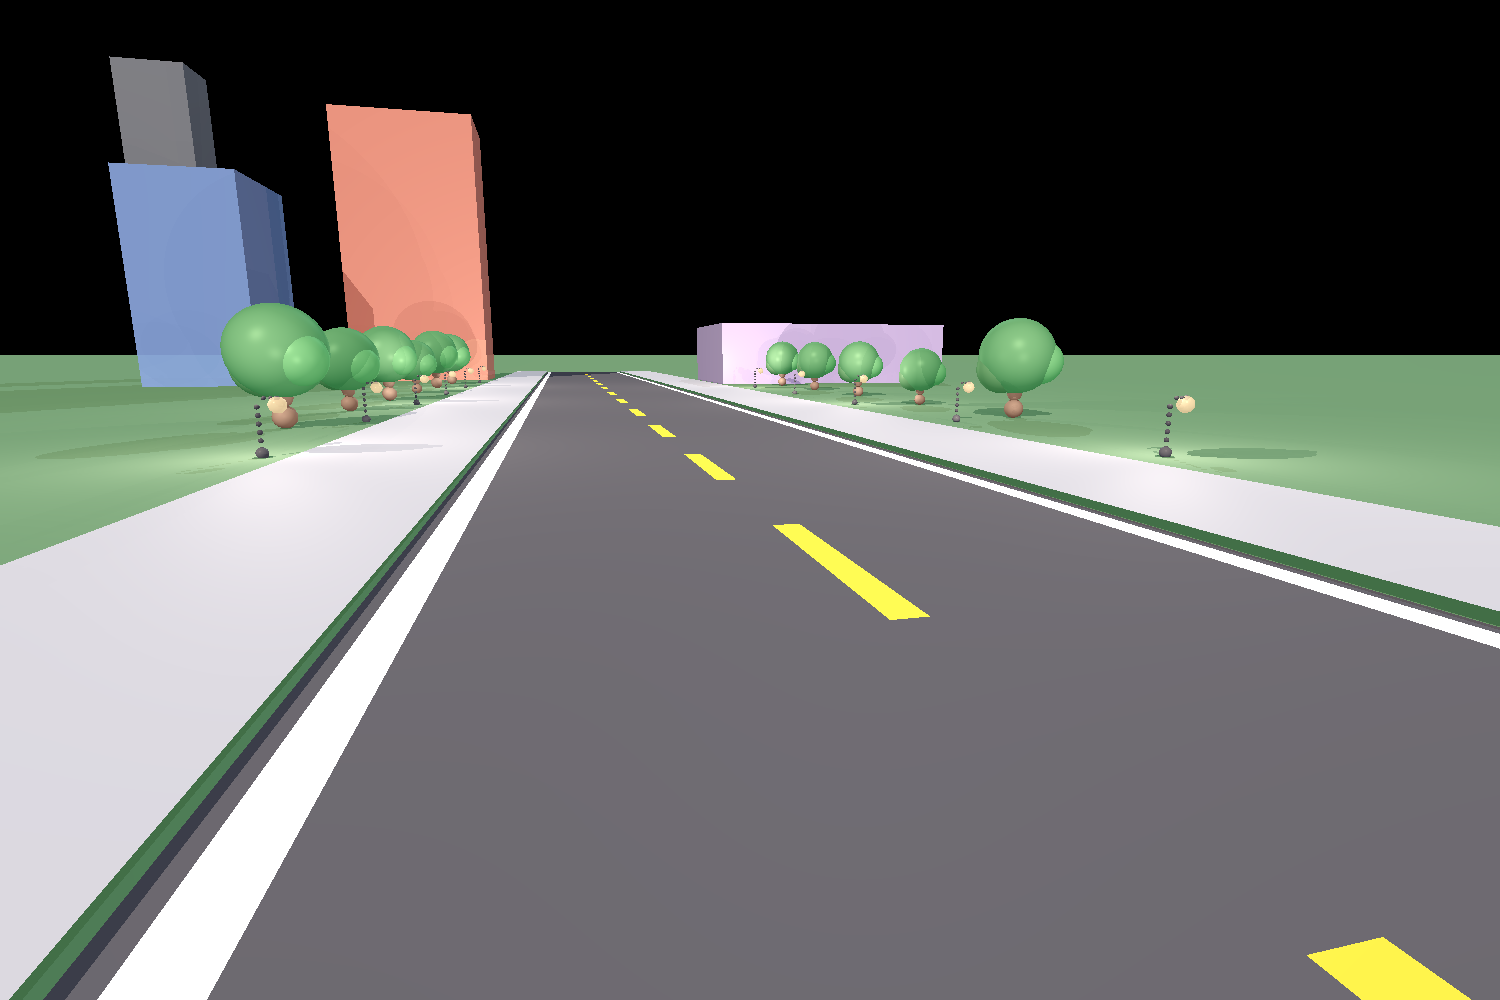
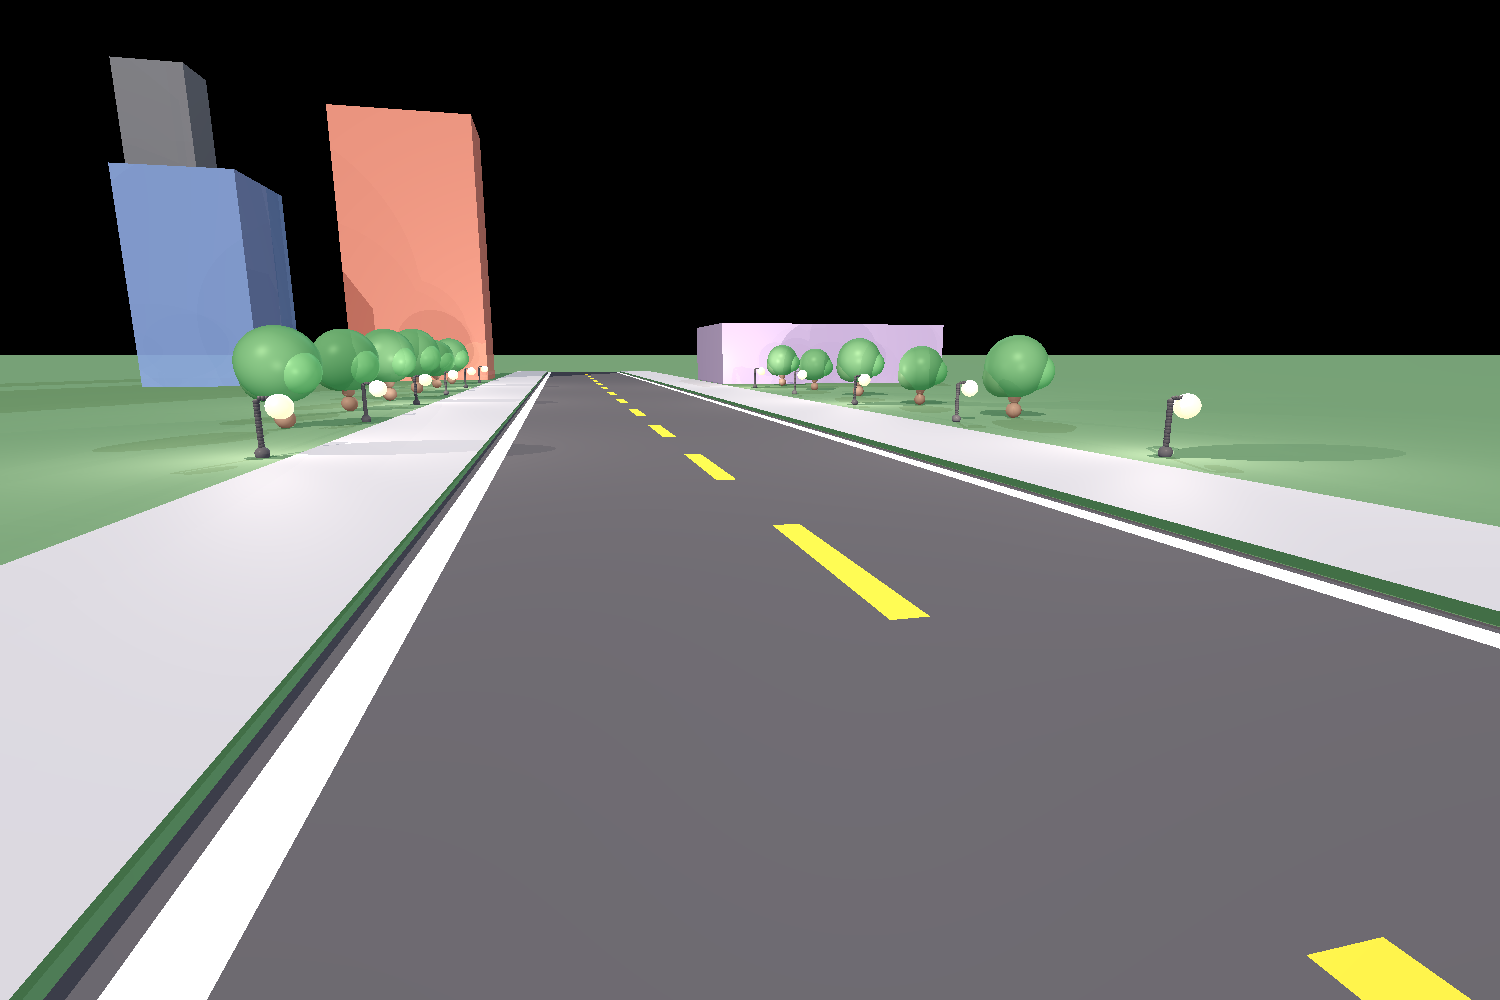
fix street

diff --git a/unittests/renderer/StreetSceneTest.java b/unittests/renderer/StreetSceneTest.java
@@ -391,41 +391,50 @@ class StreetSceneTest {
         double y = position.getY();
         double z = position.getZ();
 
-        // Solid base at ground level
-        geometries.add(new Sphere(new Point(x, y + 0.5, z), 0.7)
+        // Solid base at ground level - slightly larger and more stable looking
+        geometries.add(new Sphere(new Point(x, y + 0.5, z), 0.8)
                 .setEmission(new Color(40, 40, 45))
                 .setMaterial(new Material()
                         .setKD(0.7).setKS(0.3).setShininess(40)));
 
-        // Main pole – approximated by spheres
-        for (int i = 1; i <= 6; i++) {
-            geometries.add(new Sphere(new Point(x, y + i, z), 0.3)
+        // Main vertical pole - use a cylinder or create overlapping spheres for continuity
+        for (double height = 1.0; height <= 7.0; height += 0.4) {
+            geometries.add(new Sphere(new Point(x, y + height, z), 0.35)
                     .setEmission(new Color(30, 30, 35))
                     .setMaterial(new Material()
                             .setKD(0.6).setKS(0.4).setShininess(60)));
         }
 
-        // Horizontal arm extending outward
-        geometries.add(new Sphere(new Point(x + 0.8, y + 7, z), 0.25)
-                .setEmission(new Color(30, 30, 35))
-                .setMaterial(new Material()
-                        .setKD(0.6).setKS(0.4).setShininess(60)));
-        geometries.add(new Sphere(new Point(x + 1.6, y + 7, z), 0.25)
-                .setEmission(new Color(30, 30, 35))
-                .setMaterial(new Material()
-                        .setKD(0.6).setKS(0.4).setShininess(60)));
+        // Horizontal arm extending outward - overlapping spheres for continuity
+        for (double armPos = 0.4; armPos <= 2.4; armPos += 0.4) {
+            geometries.add(new Sphere(new Point(x + armPos, y + 7, z), 0.28)
+                    .setEmission(new Color(30, 30, 35))
+                    .setMaterial(new Material()
+                            .setKD(0.6).setKS(0.4).setShininess(60)));
+        }
 
-        // Lamp support
-        geometries.add(new Sphere(new Point(x + 2.2, y + 7, z), 0.3)
+        // Lamp support bracket - connecting the horizontal arm to the lamp
+        geometries.add(new Sphere(new Point(x + 2.4, y + 6.8, z), 0.25)
                 .setEmission(new Color(40, 40, 45))
                 .setMaterial(new Material()
                         .setKD(0.7).setKS(0.3).setShininess(40)));
 
-        // Lamp itself (warm yellow glass, more subtle)
-        geometries.add(new Sphere(new Point(x + 2.2, y + 6.2, z), 1.0)
-                .setEmission(new Color(160, 140, 100))
+        geometries.add(new Sphere(new Point(x + 2.4, y + 6.5, z), 0.25)
+                .setEmission(new Color(40, 40, 45))
                 .setMaterial(new Material()
-                        .setKD(0.4).setKS(0.6).setKT(0.2).setShininess(80)));
+                        .setKD(0.7).setKS(0.3).setShininess(40)));
+
+        // Lamp housing (dark metal casing around the light)
+        geometries.add(new Sphere(new Point(x + 2.4, y + 6.0, z), 1.1)
+                .setEmission(new Color(25, 25, 30))
+                .setMaterial(new Material()
+                        .setKD(0.8).setKS(0.2).setShininess(30)));
+
+        // ✅ Updated lamp itself at correct position
+        geometries.add(new Sphere(new Point(x + 2.4, y + 6.0, z), 1.5) // sphere at correct lamp position
+                .setEmission(new Color(255, 230, 180)) // warm light glow
+                .setMaterial(new Material()
+                        .setKD(0.7).setKS(0.3).setShininess(10)));
     }
 
     /**
